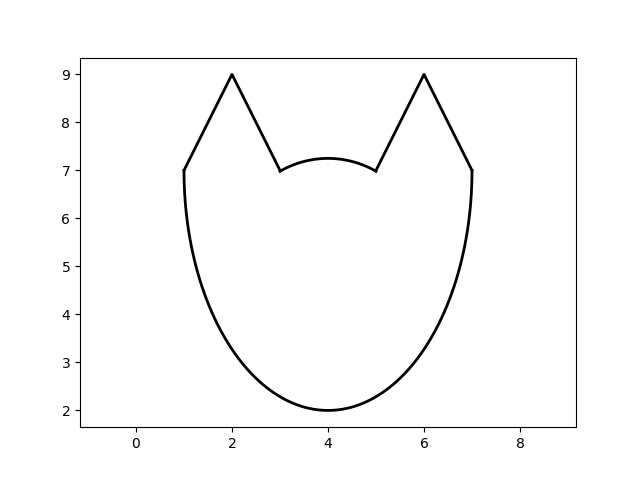
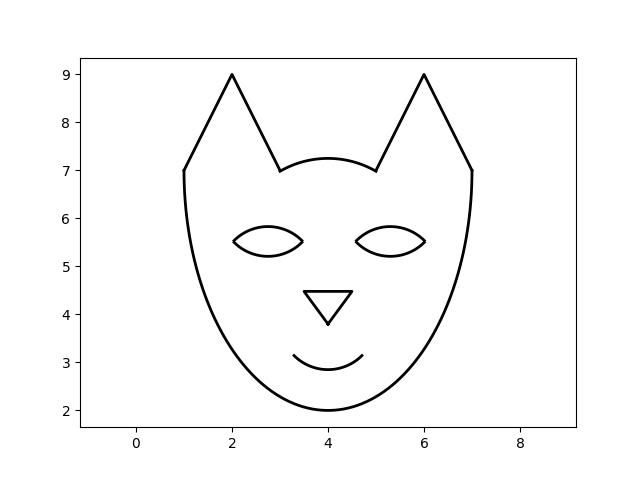
231231sdad1213123dasdasdas

diff --git a/lec_1_aprox.py b/lec_1_aprox.py
@@ -24,6 +24,42 @@ y = 7 + 5*np.sin(t)
 
 ax.plot(x, y, '-', lw=2, color='k')
 
+
+t = np.linspace(np.pi/2+np.pi/4, np.pi/2-np.pi/4, 100)
+x = 2.75 + np.cos(t)
+y = 4.83 + np.sin(t)
+
+ax.plot(x, y, '-', lw=2, color='k')
+
+t = np.linspace(3*np.pi/2-np.pi/4, 3*np.pi/2+np.pi/4, 100)
+x = 2.75 + np.cos(t)
+y = 6.21 + np.sin(t)
+
+ax.plot(x, y, '-', lw=2, color='k')
+
+t = np.linspace(3*np.pi/2-np.pi/4, 3*np.pi/2+np.pi/4, 100)
+x = 5.3 + np.cos(t)
+y = 6.21 + np.sin(t)
+
+ax.plot(x, y, '-', lw=2, color='k')
+
+t = np.linspace(np.pi/2+np.pi/4, np.pi/2-np.pi/4, 100)
+x = 5.3 + np.cos(t)
+y = 4.83 + np.sin(t)
+
+ax.plot(x, y, '-', lw=2, color='k')
+
+x = [4, 3.5, 4.5, 4]
+y = [3.8, 4.48, 4.48, 3.8]
+
+ax.plot(x, y, '-', lw=2, color='k')
+
+t = np.linspace(3*np.pi/2-np.pi/4, 3*np.pi/2+np.pi/4, 100)
+x = 4 + np.cos(t)
+y = 3.85 + np.sin(t)
+
+ax.plot(x, y, '-', lw=2, color='k')
+
 plt.axis('equal')
 
 plt.savefig('fox.png')

diff --git a/img_aprox.py b/img_aprox.py
@@ -7,7 +7,25 @@ fig, ax = plt.subplots()
 
 ax.imshow(img)
 
+t = np.linspace(np.pi/2, np.pi/4, 100)
+x = 1000 + 100*np.cos(t)
+y = 620 + 100*np.sin(t)
+
+ax.plot(x, y, '-', lw=2, color='b')
+
+x = [1075, 1115]
+y = [685, 685]
+
+ax.plot(x, y, '-', lw=2, color='b')
+
+t = np.linspace(2.3*np.pi/2, 2.7* np.pi/2, 100)
+x = 1205 + 100*np.cos(t)
+y = 730 + 100*np.sin(t)
+
+ax.plot(x, y, '-', lw=2, color='b')
 
 plt.ylim(1000, 0)
-plt.xlim(1000, 1500)
+plt.xlim(850, 1500)
 plt.savefig('star.png')
+
+
